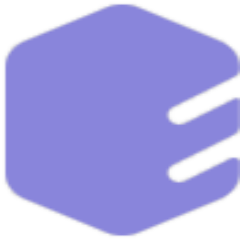
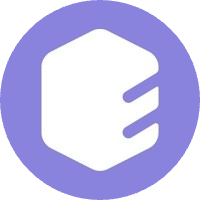
Update: Adding new Work Experience

diff --git a/src/constants/index.js b/src/constants/index.js
@@ -32,6 +32,7 @@ import {
     api,
     elucidata,
     naralytics,
+    spectrio,
     UMass,
     gyouReLee,
     rohitJagre,
@@ -65,7 +66,7 @@ import {
       icon: mobile,
     },
     {
-      title: "Software Developer",
+      title: "AI / ML",
       icon: backend,
     },
     {
@@ -151,11 +152,26 @@ import {
   
   const experiences = [
     {
+      title: "Software Engineer",
+      company_name: "Spectrio",
+      icon: spectrio,
+      iconBg: "#383E56",
+      date: "Sep 2023 - Present",
+      points: [
+        "Spearhead the modernization and enhancement initiatives for a diverse portfolio of applications catering to clients such as Microsoft, Google, HP, Subway, and Exxon Mobil, utilizing React, PHP, and Angular technologies.",
+        "Play a pivotal role in streamlining and optimizing applications to meet the customers’ digital signage needs.",
+        "Spearhead improvements in Little Caesars International app, emphasizing user experience and efficiency by optimizing memory consumption, implementing O(1) time complexity garbage collection, and refining functionality, resulting in a 70% reduction in user-reported issues and workload after relaunch.",
+        "Notable: Docker Image for Sandbox Environment",
+        "Developed and implemented a Docker image for a sandbox environment, configuring a CentOS7 environment with background services like Apache, Squid, and MariaDB, resulting in a significant reduction in development time and improved application setup.",
+        "Achieved a long-standing company goal by reducing development time and enhancing application setup, accomplishing in one month what had eluded the company for the past 7 years.",
+      ],
+    },
+    {
       title: "Software Developer",
       company_name: "Naralytics",
       icon: naralytics,
       iconBg: "#383E56",
-      date: "May 2022 - Present",
+      date: "May 2022 - Sep 2023",
       points: [
         "Lead a team of 5 developing a React Native application with custom UI/UX components increasing code reusability and versatility across iOS and Android platforms, alongside improving performance by reducing load-time by ~4s.",
         "Introduced a login authentication flow and payment setup using Firebase GCP, optimized for Google-backed SaaS security.",

diff --git a/src/components/Experience.jsx b/src/components/Experience.jsx
@@ -11,7 +11,7 @@ const ExperienceCard = ({ experience }) => {
   return (
     <VerticalTimelineElement contentStyle={{background: "#1d1836", color: "#fff"}} contentArrowStyle={{ borderRight: "7px solid  #232631" }} date={experience.date} iconStyle={{ background: experience.iconBg }} icon={
         <div className='flex justify-center items-center w-full h-full'>
-          <img src={experience.icon} alt={experience.company_name} className='w-[60%] h-[60%] object-contain'/>
+          <img src={experience.icon} alt={experience.company_name} className='object-contain'/>
         </div>
       }
     >

diff --git a/src/assets/index.js b/src/assets/index.js
@@ -40,6 +40,7 @@ import aws from "./tech/aws.png"
 import api from "./tech/api.png"
 
 import naralytics from "./company/naralytics.png"
+import spectrio from "./company/spectrio.png"
 import elucidata from "./company/elucidata.png"
 import UMass from "./company/UMass.png"
 import gyouReLee from "./company/gyouReLee.jpeg"
@@ -89,6 +90,7 @@ export {
   aws,
   api,
   naralytics,
+  spectrio,
   UMass,
   gyouReLee,
   rohitJagre,
